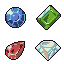
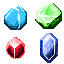
Cambié todos los sprites y balanceé los bosses

diff --git a/presentation/sprite.py b/presentation/sprite.py
@@ -81,7 +81,7 @@ class Sprite(pygame.sprite.Sprite):
 class PlayerSprite(Sprite):
     """A class representing the player sprite."""
 
-    ASSET = "./assets/adventurer-idle-00.png"
+    ASSET = "./assets/adventurer.png"
 
     def __init__(self, pos_x: float, pos_y: float):
         image: pygame.Surface = pygame.image.load(PlayerSprite.ASSET).convert_alpha()
@@ -99,8 +99,8 @@ class MonsterSprite(Sprite):
         image = pygame.image.load(MonsterSprite.ASSET).convert_alpha()
         original_width, original_height = image.get_size()
 
-        new_width = int(original_width * size)
-        new_height = int(original_height * size)
+        new_width = int((original_width + 30) * size)
+        new_height = int((original_height + 30) * size)
 
         image = pygame.transform.scale(image, (new_width, new_height))
         rect = image.get_rect(center=(int(pos_x), int(pos_y)))
@@ -110,20 +110,16 @@ class MonsterSprite(Sprite):
 class GunMonsterSprite(Sprite):
     """A class representing the gun monster sprite."""
 
-    ASSET = "./assets/monster.png"
+    ASSET = "./assets/gunmonster.png"
 
     def __init__(self, pos_x: float, pos_y: float, size: float):
         image = pygame.image.load(GunMonsterSprite.ASSET).convert_alpha()
         original_width, original_height = image.get_size()
 
-        new_width = int(original_width * size)
-        new_height = int(original_height * size)
+        new_width = int((original_width + 30) * size)
+        new_height = int((original_height + 30) * size)
+
         image = pygame.transform.scale(image, (new_width, new_height))
-
-        red_tint = pygame.Surface(image.get_size(), flags=pygame.SRCALPHA)
-        red_tint.fill((255, 150, 150))
-        image.blit(red_tint, (0, 0), special_flags=pygame.BLEND_RGBA_MULT)
-
         rect = image.get_rect(center=(int(pos_x), int(pos_y)))
 
         super().__init__(image, rect)
@@ -148,14 +144,14 @@ class BossMonsterSprite(Sprite):
 class BigBossMonsterSprite(Sprite):
     """A class representing the boss monster sprite."""
 
-    ASSET = "./assets/boss2.webp"
+    ASSET = "./assets/boss2.png"
 
     def __init__(self, pos_x: float, pos_y: float, size: float):
         image = pygame.image.load(BigBossMonsterSprite.ASSET).convert_alpha()
         original_width, original_height = image.get_size()
 
-        new_width = int(original_width * size)
-        new_height = int(original_height * size)
+        new_width = int((original_width + 200) * size)
+        new_height = int((original_height + 200) * size)
 
         image = pygame.transform.scale(image, (new_width, new_height))
         rect = image.get_rect(center=(int(pos_x), int(pos_y)))
@@ -179,16 +175,13 @@ class BulletSprite(Sprite):
 class MonsterBulletSprite(Sprite):
     """A class representing the bullet sprite."""
 
-    ASSET = "./assets/upgrades_set.png"
+    ASSET = "./assets/monsterbullet.png"
 
     def __init__(self, pos_x: float, pos_y: float):
-        tileset = Tileset(
-            MonsterBulletSprite.ASSET, settings.TILE_HEIGHT, settings.TILE_HEIGHT, 8, 1
-        )
-        image: pygame.Surface = tileset.get_tile(0)
+        image = pygame.image.load(MonsterBulletSprite.ASSET).convert_alpha()
         
-        scaled_width = int(image.get_width() * 0.6)
-        scaled_height = int(image.get_height() * 0.6)
+        scaled_width = int(image.get_width() * 0.3)
+        scaled_height = int(image.get_height() * 0.3)
         image = pygame.transform.scale(image, (scaled_width, scaled_height))
 
         image.fill((255, 150, 150), special_flags=pygame.BLEND_RGBA_MULT)

diff --git a/business/world/monster_spawner.py b/business/world/monster_spawner.py
@@ -98,7 +98,12 @@ class MonsterSpawner(IMonsterSpawner):
                     pos_x = camera_right
                     pos_y = random.randint(camera_top, camera_bottom)
 
-                monster = random.choice(self.__monsters)
+                monster_choice = random.randint(1, 100)
+                if monster_choice >= 85:
+                    monster_choice = 1
+                else:
+                    monster_choice = 0
+                monster = self.__monsters[monster_choice]
                 world.add_monster(monster(pos_x, pos_y))
 
                 if GameClockSingleton().game_clock > 60000 and not self.__minute_boss_added:

diff --git a/business/entities/monsters/boss2.py b/business/entities/monsters/boss2.py
@@ -10,7 +10,7 @@ import math
 class BigBossMonster(MovableEntity, IMonster):
     """A monster entity in the game."""
 
-    BASE_SPEED = 6
+    BASE_SPEED = 4
     BASE_HEALTH = 10000
     BASE_DAMAGE = 10000
     BASE_ATTACK_RANGE = 50

diff --git a/business/entities/monsters/boss.py b/business/entities/monsters/boss.py
@@ -10,7 +10,7 @@ import math
 class BossMonster(MovableEntity, IMonster):
     """A monster entity in the game."""
 
-    BASE_SPEED = 5
+    BASE_SPEED = 3
     BASE_HEALTH = 5000
     BASE_DAMAGE = 50
     BASE_ATTACK_RANGE = 100

diff --git a/business/entities/monsters/gunner.py b/business/entities/monsters/gunner.py
@@ -11,7 +11,7 @@ import math
 class GunMonster(IMonsterGun):
     """A monster entity that shoots bullets."""
 
-    BASE_SPEED = 2
+    BASE_SPEED = 1
     BASE_HEALTH = 10
     BASE_ATTACK_RANGE = 20000
 
